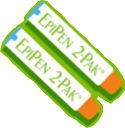
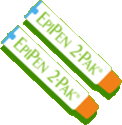
yellow 300x600 done

Changed region(s): [[0.0, 0.0, 1.0, 1.0]]

diff --git a/october-response_yellow/300x600_v2alt/css/style.css b/october-response_yellow/300x600_v2alt/css/style.css
@@ -21,11 +21,10 @@ img{ border: 0; }
 #loader {
     position: absolute;
     font-family: 'Roboto', sans-serif;
-    font-size: 12px;
+    font-size: 13px;
     color: #666;
     top: 0;
     left: 0;
-    width: 150px;/*width of banner-2*/
     height: 300px;/*height of banner-2*/
 }
 .loading {
@@ -94,19 +93,19 @@ img{ border: 0; }
     opacity: 0
 }
 #f2_txt1{
-    left: 8px; top: 106px;
+    left: 67px; top: 81px;
     opacity: 0;
 }
 #f2_img1 #cover{
     position: absolute;
-    left: 74px; top: 84px;
+    left: 98px; top: 118px;
 }
 #heart_sign{
-    left: 60px; top: 85px;
+    left: 82px; top: 115px;
 }
 #f3_txt1{
     position: absolute;
-    left: 34px; top: 90px;
+    left: 41px; top: 81px;
     opacity: 0;
 }
 #cross_sign,
@@ -114,28 +113,27 @@ img{ border: 0; }
     position: absolute;
 }
 #white_patch{
-    left: 51px; top: 12px;
+    left: 69px; top: 16px;
 }
 #cross_sign{
-    left: 49px; top: 10px;
+    left: 67px; top: 10px;
 }
 #f4_img1{
     background: url(../img/green_patch.png) no-repeat;
 }
 #f4_txt1{
     position: absolute;
-    left: 17px; top: 41px;
+    left: 80px; top: 32px;
     opacity: 0;
 }
 #f4_txt2{
     position: absolute;
-    left: 15px; top: 68px;
+    left: 7px; top: 60px;
     opacity: 0;
 }
 #epipen_pack{
     position: absolute;
-    left: 15px; top: 16px;
-    /*width: 79px; height: 81px;*/
+    left: 20px; top: 20px;
 }
 #f5_btn,
 #logo,
@@ -145,13 +143,14 @@ img{ border: 0; }
     visibility: hidden;
 }
 #f5_pen{
-    left: 45px; top: 147px;
+    /*left: 13px; top: 112px;*/
+    left: 13px; top: 168px;
 }
 #logo{
     left: 0px; top: 0px;
 }
 #f5_btn{
-    left: 12px; top: 259px;
+    left: 35px; top: 253px;
     cursor: pointer;
     z-index: 2;
     overflow: hidden;
@@ -175,16 +174,13 @@ h3,strong { font-weight: bold; }
     -webkit-box-shadow: inset 0 -3px 3px -3px #000*/
 }
 .scrollBlock {
-    height: 146px;
-    top: 402px;
+    height: 169px;
+    top: 390px;
     z-index: 4;
-    /*width: 298px;*/
-    width: 158px;
-    /*left: 10px;*/
-    /*line-height: 1.1;*/
+    width: 298px;
 }
 .scrollInner {
-    height: 146px
+    height: 169px
 }
 .mCustomScrollBox {
     padding: 0 10px
@@ -208,7 +204,7 @@ h3,strong { font-weight: bold; }
    /* display: block*/
 }
 .scrollBlock h2 {
-    font-size: 12px;
+    font-size: 14px;
     color: #5d5d5e;
     margin: 0 0 10px;
     padding: 0;
@@ -217,13 +213,14 @@ h3,strong { font-weight: bold; }
 
 .scrollBlock ul li,
 .scrollBlock p {
-    font-size: 11px;
+    font-size: 13px;
     color: #5d5d5e;
     font-family: 'Roboto', sans-serif;
+    line-height: 1.35;
 }
 
 .scrollBlock h3 {
-    font-size: 12px;
+    font-size: 14px;
     color: #5d5d5e;
     margin: 10px 0px 3px 0px;
     padding: 0;
@@ -249,15 +246,15 @@ h3,strong { font-weight: bold; }
     text-align: left;
     position: absolute;
     background: #FFF none repeat scroll 0% 0%;
-    width: 160px;
+    width: 300px;
     bottom: 0px;
-    padding-top: 4px;
-    height: 36px;
+    padding-top: 6px;
+    height: 24px;
     font-family: 'Roboto', sans-serif;
-    font-size: 11px;
+    font-size: 12px;
     color: #5d5d5e;
-    padding-left: 12px;
-    line-height: 1.35em;
+    padding-left: 6px;
+    line-height: 1em;
     z-index: 10
 }
 .footer span,
@@ -356,11 +353,11 @@ h3,strong { font-weight: 700; }
 	left: 0;
 	bottom: 0;
 	right: 0;
-	height: 132px;
+	height: 155px;
 }
 .mCSB_scrollTools {
     bottom: 0;
-    height: 147px;
+    height: 170px;
     left: auto;
     position: absolute;
     right: 0;
@@ -382,7 +379,7 @@ h3,strong { font-weight: 700; }
     border-radius: 0;
 }
 .mCSB_scrollTools .mCSB_draggerRail {
-    height: 132px;
+    height: 155px;
     margin: 0 auto;
     width: 9px;
     border-radius: 0;

diff --git a/october-response_yellow/300x600_v2alt/js/script.js b/october-response_yellow/300x600_v2alt/js/script.js
@@ -62,7 +62,7 @@ tll1
 .to( arm, 0.5, {rotation:"-=30",transformOrigin:"45% bottom",ease:Back.easeOut.config(0.8)},"-=0.5")
 .to( arm, 0.5, {rotation:"+=30",transformOrigin:"45% bottom",ease:Back.easeOut.config(0.8)})
 .to( arm, 0.5, {rotation:"-=30",transformOrigin:"45% bottom",ease:Back.easeOut.config(0.8)})
-/*.to( f1_t2, 0.5, {top: "-=20",autoAlpha:0, ease:"easeInOutBack"})
+.to( f1_t2, 0.5, {top: "-=20",autoAlpha:0, ease:"easeInOutBack"})
 .from( f2_t1, 1, {top: "-=20", ease:"easeInOutBack"})
 .to( f2_t1, 1, {autoAlpha:1, ease:"easeInOutBack"},"-=1")
 .to( f2_i1, 1, {scale:1,opacity:1, left:l2, top:t2, ease:Back.easeOut.config(0.8)},"-=1")
@@ -75,7 +75,6 @@ tll1
 .to( heart, 0.5, {scale:0.5,ease:Back.easeIn.config(0.8)})
 .to( heart, 0.5, {scale:1.0,ease:Back.easeOut.config(0.8)})
 .to( f2_t1, 0.5, {top: "-=20",autoAlpha:0, ease:"easeInOutBack"},"-=1")
-.to( f1_t1, 1, {top: "30", ease:"easeInOutBack"})
 .from( f3_t1, 1, {top: "-=20", ease:"easeInOutBack"})
 .to( f3_t1, 1, {autoAlpha:1, ease:"easeInOutBack"},"-=1")
 .to( f3_i1, 1, {scale:1,opacity:1, left:l2,top:t2, ease:Back.easeOut.config(0.8)},"-=1")
@@ -96,8 +95,8 @@ tll1
 .to( penArt, 1, {rotation:-90, ease:"easeInOutBack"})
 .to( penArt, 1, {rotation:47, ease:"easeOutBack"})
 .to( f3_i1, 1, {scale:0.4,opacity:o2,left:l4,top:t4,ease:Back.easeOut.config(0.8)},"-=1")
-.to( f5_i1, 1, {autoAlpha:1, ease:"easeInOutBack"},"-=0.5")
-.to( f5_i1, 0.5, {scale:1,left:43,top:96, ease:"easeInOut"})
+.to( f5_i1, 1, {autoAlpha:1, ease:"easeInOutBack"},"-=0.25")
+.to( f5_i1, 0.5, {scale:1,left:13,top:112, ease:"easeInOut"},"-=0.5")
 .to( f4_i1, 0.5, {autoAlpha:0, ease:"easeInOutBack"},"-=1")
 .to( f4_t1, 0.5, {autoAlpha:0, ease:"easeInOutBack"},"-=1.5")
 .to( f4_t2, 0.5, {autoAlpha:0, ease:"easeInOutBack"},"-=1.5")
@@ -106,4 +105,4 @@ tll1
 .from( f5_i2, 1, {left:300, ease:"easeInOutBack"},"-=2")
 .from( f5_i3, 0.5, {left:300, ease:"easeInOutExpo"},"-=0.5")
 .to(shine, 2, {left:250, ease:Back.easeInOut},"-=1")
-*/;
+;
